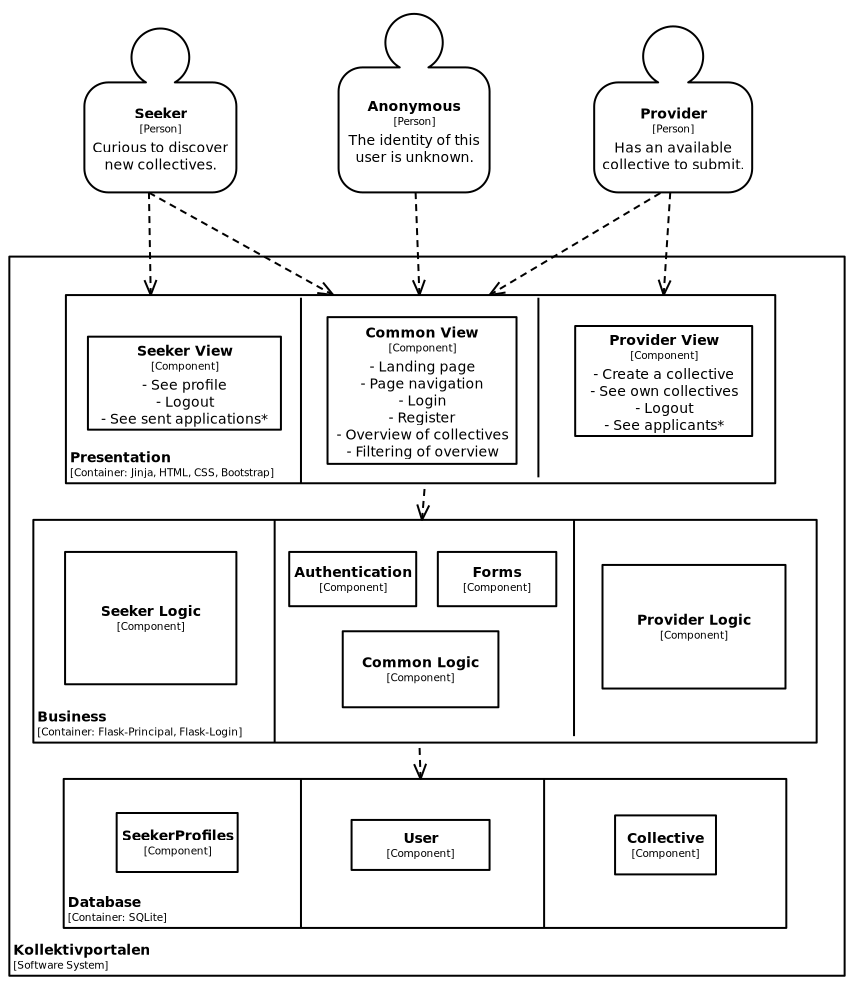
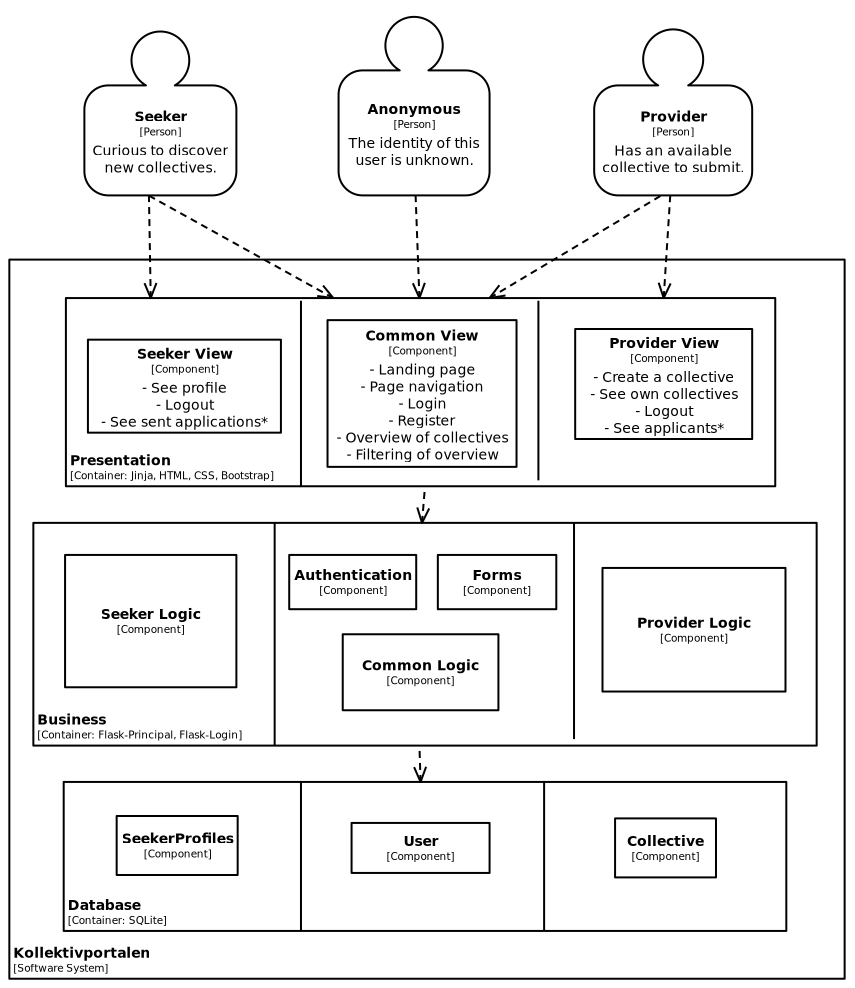
monolith section draft

diff --git a/report/2_task-1.tex b/report/2_task-1.tex
@@ -6,65 +6,44 @@
 The section will provide a high-level overview of our codebase for the monolithic implementation, and try to map the concrete components to the functionality of our service. 
 It also serves to introduce and document the degree of cohesion and coupling throughout the monolithic system.
 
-FORKLAR OVERORDNET OVERBLIK, BRUG DE RETTE BEGREBER TIL AT BESKRIVE TILGANG
-GIV ÅRSAG TIL, AT DEN ER STRUKTURERET SÅLEDES, SOLID?
+\subsection{Overview}
 
-Our monolith follows a 1-tier layered approach, a modular monolith, deployed as a single unit thorugh the \verb|__init__| initialization of the Flask Blueprint framework. The unit is deployed via a Docker container, and can be ran following the instructions in the \verb|README.md| file. 
-% Our aim for the monolith has been to organize the code into modules based on their logical separation and responsibility. 
+Our monolith follows a 1-tier layered approach, a modular monolith, deployed as a single unit thorugh the \verb|__init__| initialization of the Flask Blueprint framework. The unit is deployed via a a single Docker container, and can be ran following the instructions in the \verb|README.md| file. 
+A monolith is a sensible starting point for a software project of our scope, and the main advantage is that we are avoiding the unnecessary complexity of distributed parts. For example that the communication of each layer can be done in a single process, simplifying our development flow and iteration cycles. 
+We decided to value a fast and easy deployment over a, on paper, more fault tolerant and scalable tiered approach. Each module can communicate directly with one another through direct imports. Representing the organisation of the code in multiple modules is also a good starting point for the later microservice evolution. 
+
 The monolith is logically organized in layers; each layer with its own responsibility. This means, that we utilize a one-way communication from the Presentation Layer, to the Business Logic Layer and the Database Layer.
 Importantly, we can partition each layer of our system into three subcategories based on their relation to the problem domain of Seekers, Providers or Anonymous users (Figure \ref{fig:container_monolith}). 
 Each subcategory within a layer is responsible for the domain driven functionality of that particular layer. This means, that even though we have grouped our system in horizontal layers, each subcategory of an upper layer is dependent on the components of the same subcategory of the layer below. Making any changes to the system therefore requires attention and often manipulation of all three layers, as the problem domain, represented by a subcategory of components, has to be present in all layers. 
 
-The Presentation layer consists of the static content in the form of HTML and CSS in \verb|templates| and \verb|static| folders, which are directly coupled with the Business Layer via custom Jinja-conditionals for displaying the correct data. 
+\subsection{Layers, Components and Dependencies}
+
+The Presentation layer consists of the static content in the form of HTML and CSS in \verb|templates| and \verb|static| folders, which are directly dependent on the Business Layer via custom Jinja-conditionals for displaying the correct data.  
 Our domain problem of matching Seekers with Providers of collectives is therefore solved via the pages we render towards the user, and the users interaction with these pages. Each page is visually displayed by the presentation layer, that handles the static structure and styling of the content. 
 The styling utilises the framework Bootstrap, that provides easier development and consistency of the visual identity throughout the site.
-The pages rendered will depend on the identity of that user; whether the user is a Seeker, a Provider or Anonymous (not logged in), which exemplifies how the presentation layer is dependent on the business layer.
+The pages rendered will depend on the identity of that user; whether the user is a Seeker, a Provider or Anonymous (not logged in), which exemplifies how the presentation layer is dependent on the business layer (Figure \ref{fig:container_monolith}). The coupling behind the dependence is only on data, as the Presentation renders the routes present in the functions of the Business layer, but do not depend on the actual implementation details of these routes.
 
 The business layer implements the logic that solves the domain problem via the files \verb|auth.py|, \verb|logic.py| and \verb|forms.py|.
-This is the layer with the highest interdependence between components. The grouping and relationship of components can be seen in figure \ref{fig:zoom_in_monolith}.
+This is the layer with the highest interdependence between components. The grouping and relationship of components can be seen in Figure \ref{fig:zoom_in_monolith}.
 The main logic is stored in \verb|logic.py|, and within this file we consider the beforementioned subcategories of logic. The Provider Logic solves the task of allowing a Provider to view, create and delete their collectives. The Seeker Logic solves the task of allowing a seeker to view and update their own profile. 
 Importantly, the common logic represents the universally available functionality for all user types; the landing page and the overview of collectives. 
-All this logic is dependent on manipulating data from the Database, which is represented by the outer arrow fron the total \verb|logic.py| container to the Database layer. 
-Both the seeker and the provider logic is dependent on the authentication of the current user, data about their session, in order to be carried out. This dependency is represented via the thick line from the two components towards the \verb|auth.py| component. \textbf{BESKRIV DEN KONKRETE FORSKELLIG TYPE AF COUPLING}
+All business logic is dependent on manipulating data from the Database, which is represented by the outer arrow fron the total \verb|logic.py| container to the Database layer. 
+
+Both the seeker and the provider logic is dependent on the authentication of the current user, data about their session, in order to be carried out. This dependency is represented via the thick line from the two components towards the \verb|auth.py| component.
+This coupling requires the sharing of a global state related to the session cycle of the current user. The logic is therefore somewhat temporally coupled with the authentication flow. 
+The possibility of delegating the actual implementation of the authorization to Flask-Principal greatly reduces complexity.
 
 All modules and subcategories in the business layer is dependent on the \verb|forms.py| in order achieve their respective interaction with the user, however, each form is independent from eachother, so we could also have stored the relevant form inside of the relevant logic. It therefore maintains a pure data coupling.
 
-The Model layer consists of the storage of domain entities in \verb|model.py|, which are the \verb|Collective|, \verb|User|, \verb|SeekerProfile| classes. \verb|images.py| has the responsibility of providng image handling capabilities.
+The Database layer consists of the storage of domain entities in \verb|model.py|, which are the \verb|Collective|, \verb|User|, and the \verb|SeekerProfile| classes. 
+Many methods in the Business Layer directly manipulates the data, such as \verb|create_or_update_profile()|.
+The Business Layer is therefore externally coupled with the Database Layer, as manipulation is an Object-Relational Mapping achieved via SQLAlchemy that directly affects the persistant stored data, with the methods using the entire composite data structures.
+\verb|images.py| has the responsibility of providng image handling capabilities, and can coupling wise be considered as part of the \verb|model.py|.
 
-UNDERSØG IMAGE COUPLING TIL DE ANDRE KLASSER.
-DU MANGLER AT INDSÆTTE IMAGES.PY I DIN FIGUR.
-
-The Database Layer consists of the files \verb|model.py| and \verb|images.py|.
-
-BESKRIV HVORFOR VI VALGTE EN MONOLITH VS N-TIER
-\\ A monolith is a sensible starting point for our software project, as  
-The main advantage of our monolithic approach is that we are avoiding the unnecessary complexity of distributed parts. 
-
-
-SKRIV OM FORDELENE VED DENNE TILGANG
-
-FORKLAR HVORDAN KOMMUNIKATIONEN FOREGÅR
-Importantly, the monolithic structure provides speed in terms of ... as the links are not via ... but instead ... 
-
-
-SKRIV OM ULEMPERNE VED DENNE TILGANG
-
-
-Importantly, we distinguish between two forms of dependence here.
-
-
-
-
-
-
-
-
-
-
-
-
-
-
+Overall, the monolith version represents an easy to build ... \textbf{UDDYB}.
+However, the disadvantages of the monolithic layered approach comes from the higher degree of coupling between select parts of the system. While the Presentation layer only is coupled through data links, the internal coupling between components of the Business Layer, and the coupling of the Business Layer with the Database Layer remains somewhat high 
+because of \verb|logic.py|'s common and temporal coupling with \verb|auth.py| and the overall external coupling between the Business Layer and the Database Layer.
+Another disadvantage is, that almost any changes to the web service therefore requires attention to all layers because of the vertical partition of subcomponents. 
 
 \begin{figure}[H]
     \centering
@@ -76,8 +55,9 @@ Importantly, we distinguish between two forms of dependence here.
 
 % Husk at center ordenligt
 \begin{figure}[H]
-    \centering
-    \includegraphics[width=1.1\linewidth]{img/zoom_in_business.png}
+    \makebox[\textwidth][c]{%
+        \includegraphics[width=1.2\linewidth]{img/zoom_in_business_v2.png}%
+    }
     \caption{Zoom in on the business layer}
     \label{fig:zoom_in_monolith}
 \end{figure}

diff --git a/report/1_application.tex b/report/1_application.tex
@@ -38,10 +38,6 @@ This service would aim to streamline the process of applying to collectives by c
 and providing relevant applicant information through the seeker's profile data.
 The skeleton for this future feature can already be seen on the site with the ''Apply'' button on each collective.
 % hmm måske behøves dette ikke med. Der er jo flere grunde til det er vigtigt. Tror godt man forstår hvorfor det er en essentiel feature. 
-%This is an important part of our problem domain, 
-%as each collective traditionally has their own distinctive procedure for deciding upon new members. 
-%Each collective is free to decide on this procedure outside of our service, but
-%we would aspire to ease this procedure by centralizing the receival of applications and providing details through the seeker's profile data.
 
 %and also be inspired by other collectives.
 %Nævn dette senere imo: Technically speaking our problem domain is therefore a CRUD-application in the context of role-based management of user capabilities.
@@ -51,7 +47,6 @@ The skeleton for this future feature can already be seen on the site with the ''
 The visual identity of the service is build using the Bootstrap framework. 
 This choice enables quicker deployment due to the ease of styling via the inherent CSS. 
 However, we have tried to stay mindful of good accessibility and semantics of the HTML. 
-
 In the following, we invite the reader on a guided tour of the website, highlighting the core
 design choices and functionality.
 
@@ -94,10 +89,7 @@ All users can apply filters to discover specific collectives within their prefer
 Seeker specific functionality encompass the ability to update your profile with personal information via a form. 
 This includes persistent storage of a profile picture, name, birthdate, gender, occupation and a short biography. 
 This information is intended to be visible to providers when reviewing applications to ease finding the right
-fit for the collective.
-
-\textbf{gentagelse?}
-When application functionality is implemented in the future, applying to collectives will only be possible for seekers.
+fit for the collective. When application functionality is implemented in the future, applying to collectives will only be possible for seekers.
 Here the profile page could be extended to also allow for viewing the status of your applications.
 
 \subsubsection{Provider specific functionality}
@@ -107,13 +99,15 @@ This page consists of a form where the provider must specify the city, streetnam
 When the collective has been submitted, it becomes part of the global overview of all collectives, and can instantly be seen by potential seekers.
 It is also visible on the provider-specific page "Your Collectives".
 This functions as the provider's profile page but instead of having personal information they instead see an overview of their collectives on the site.
+In a future iteration, the provider would also be able to see and review applications for thier collective. 
+Ideally, we want to create an intuitive overview of applicants; where they can access the application, 
+but also clearly see the profile data of the seeker. This is an important part of our problem domain, 
+as each collective traditionally has their own distinctive procedure for deciding upon new members. 
+Each collective is free to decide on this procedure outside of our service, but
+we would aspire to ease this procedure by centralizing the receival of applications and providing details through the seeker's profile data.
 
-\textbf{gentagelse?}
-In the future the provider would also be able to see and review applications 
-Ideally, we want to create an intuitive overview of applicants for their collectives; where they can access the application, 
-but also clearly see the profile data of the seeker. 
-One could also consider the possibility to mark your collective as "idle", if it is currently not seeking new members, 
-but still want to exist in our database. This information should be clearly visible to the seeker. 
+Another important unimplemented feature would be the possibility to mark collectives as "idle", if it is currently not seeking new members, 
+but still want to exist in our database. This information should be clearly visible the other users.
 
 
 %\subsubsection{Authentication and session management}
